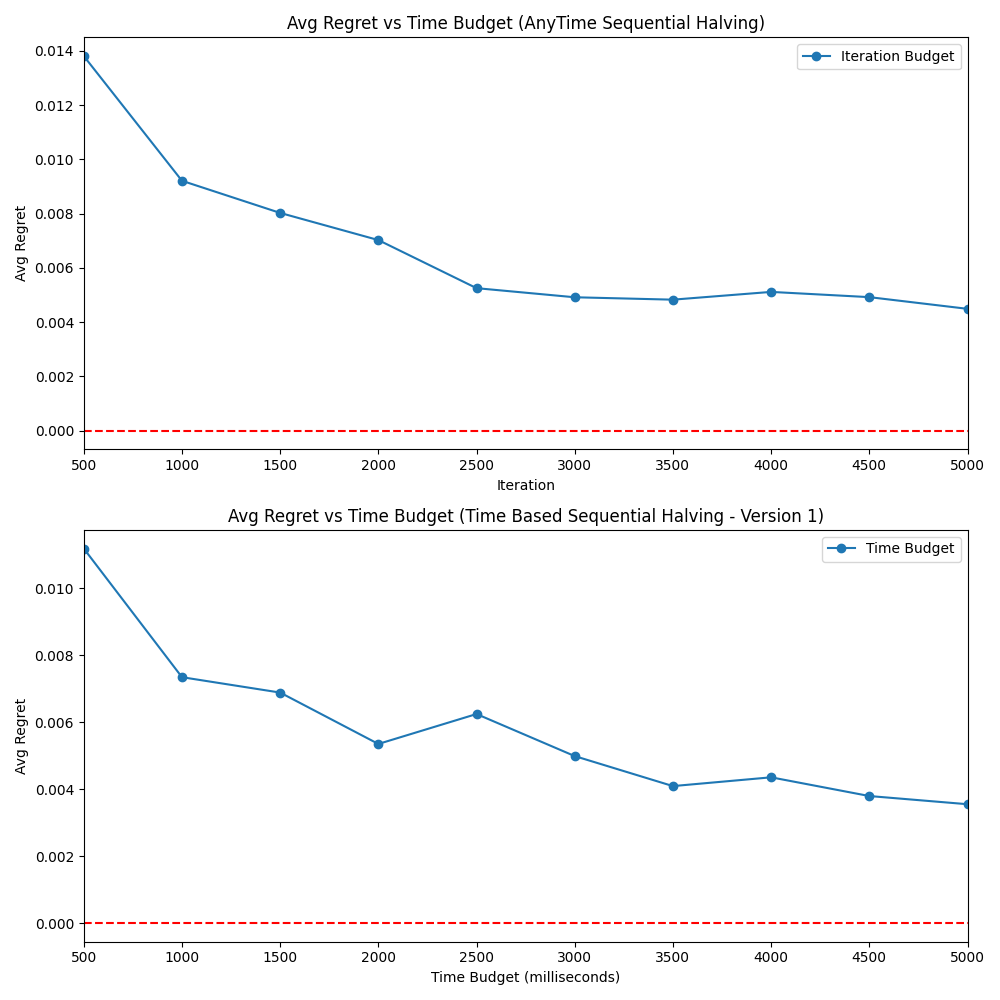
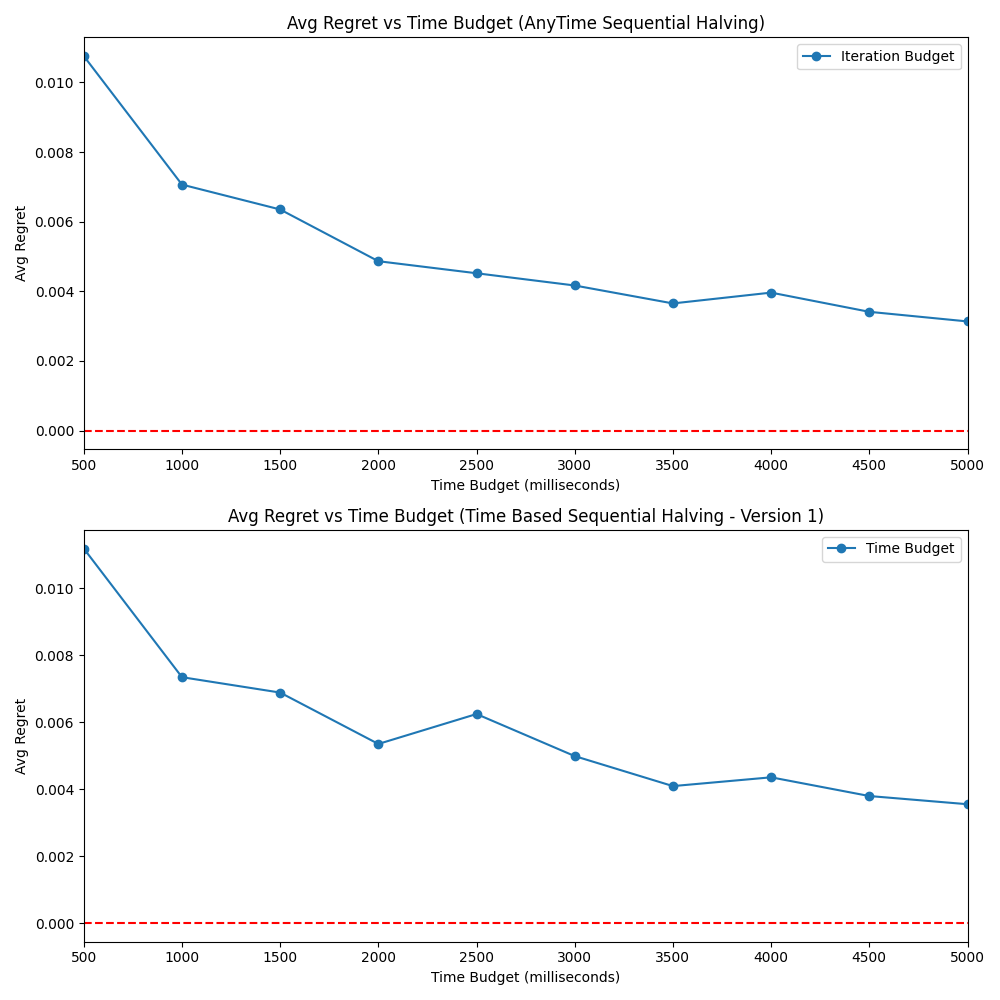
Proper iteration amount now given to children, UCB1 in MAB framework, reran MAB experiments for anyrtime

diff --git a/MAB/SequentialHalvingMAB.py b/MAB/SequentialHalvingMAB.py
@@ -191,6 +191,7 @@ class SequentialHalvingAlgAnyTime_v1:
     self.total_means = {index: 0 for index, arm in enumerate(range(k))} #The total rewards that the algorithm has observed for each arm
     self.hist = []
     self.return_hist = return_hist
+    self.round_iter = 0
 
    
      
@@ -206,8 +207,8 @@ class SequentialHalvingAlgAnyTime_v1:
   def choose_arm(self) -> int:
     #print(f"current_arm: {self.current_arm} current index: {self.current_arms.index(self.current_arm)} considered_arms_amt: {self.considered_arms_amt} current_round: {self.current_round} budget_left: {self.budget_left} sample_count_per_arm: {self.sample_count_per_arm} arms left: {len(self.current_arms)}")
     
-    if self.keys_idx + 1 >= len(self.current_arms_keys):#If this is true, we are ready to halve the search or we are ready to start over
-      
+    if self.round_iter >= len(self.current_arms):#If this is true, we are ready to halve the search or we are ready to start over
+      self.round_iter = 0
       if len(self.current_arms_keys) <= 2:#if true we reset the nodes we search
         self.keys_idx = 0
         self.current_arms_keys = list(self.current_arms.keys())
@@ -237,8 +238,9 @@ class SequentialHalvingAlgAnyTime_v1:
         self.keys_idx = 0
         
     else:
-      
+      self.round_iter = self.round_iter + 1
       self.keys_idx = self.keys_idx + 1
+      if self.keys_idx >= len(self.current_arms_keys): self.keys_idx = 0
       
     self.current_arm = self.current_arms_keys[self.keys_idx]
       # print("Current_arms: " + str(self.current_arms))
@@ -246,7 +248,7 @@ class SequentialHalvingAlgAnyTime_v1:
       # print(self.keys_idx)
       # print("curarm: " + str(self.current_arm))
     if self.return_hist: self.hist.append(self.current_arm)
-    
+
     return self.current_arm
 
       
@@ -480,6 +482,57 @@ class SequentialHalvingAlgTime_v1:
 #     self.total_means[self.current_arms.index(arm)] = self.total_rewards[self.current_arms.index(arm)]/self.visits[self.current_arms.index(arm)]
 #     self.current_rewards[self.current_arms.index(arm)] = self.total_rewards[self.current_arms.index(arm)]/self.visits[self.current_arms.index(arm)]
 
+class UCB1:
+  """
+  The UCB1 algorithm.
+  """
+
+  def __init__(self, C: float):
+    """
+    :param C: The exploration parameter C.
+    """
+    self.C = C
+    self.t = 0
+    self.num_pulls = [0 for _ in range(k)]
+    self.avg_rewards = np.zeros(k)
+
+  def reset(self) -> None:
+    """
+    Reset all memory.
+    """
+    self.t = 0
+    self.num_pulls = [0 for _ in range(k)]
+    self.avg_rewards = np.zeros(k)
+
+  def choose_arm(self) -> int:
+    """
+    :return: Arm, in [0, k).
+    """
+    self.t = self.t + 1
+    ucbs = np.copy(self.avg_rewards)
+    log_t = log(self.t)
+
+    for i in range(k):
+      if self.num_pulls[i] == 0:
+        ucbs[i] = np.inf
+      else:
+        ucbs[i] = ucbs[i] + self.C * sqrt(log_t / self.num_pulls[i])
+
+    return np.argmax(ucbs)
+
+  def observe_reward(self, arm: int, reward: float) -> None:
+    """
+    This function lets us observe rewards from arms we have selected.
+
+    :param arm: Index (starting at 0) of the arm we played.
+    :param reward: The reward we received.
+    """
+    self.num_pulls[arm] = self.num_pulls[arm] + 1
+    self.avg_rewards[arm] = self.avg_rewards[arm] + ((reward - self.avg_rewards[arm]) / self.num_pulls[arm])
 
   def __str__(self):
+    return f"UCB1({self.C:.3f})"
+  def __str__(self):
     return print(f"Sequential_halving:\nArm history: {self.hist}\n")
+  
+  

diff --git a/MAB/MAB_experiment_runner.py b/MAB/MAB_experiment_runner.py
@@ -373,7 +373,7 @@ if __name__ == "__main__":
     plt.subplot(2, 1, 1)
     plt.plot(csv1it["Index"], csv1it["Avg Regret"], label="Iteration Budget", marker='o')
     plt.axhline(y=0, color='r', linestyle='--')  # Add horizontal line at y=0
-    plt.xlabel("Iteration")
+    plt.xlabel("Time Budget (milliseconds)")
     plt.ylabel("Avg Regret")
     plt.title("Avg Regret vs Time Budget (AnyTime Sequential Halving)")
     plt.legend()
@@ -471,25 +471,25 @@ if __name__ == "__main__":
    
     
     
-    # num_arms = 10
-    # means_amt = 100
-    # iterations = 1000
-    # arm_means_idx = 5
+    num_arms = 10
+    means_amt = 100
+    iterations = 1000
+    arm_means_idx = 5
 
-    # time_budget_ms = 3000
+    time_budget_ms = 1000
 
-    # mab_exp_runner = MAB_Experiment_runner(num_arms, means_amt)
-    # # hist = mab_exp_runner.run_sh_anytime_experiment(time_budget_ms, arm_means_idx)
-    # # print(hist)
-    # # mab_exp_runner.plot_sh_experiment(hist,arm_means_idx,time_budget=time_budget_ms,type="anytime")
-    # # mab_exp_runner.run_regret_and_edit_distance_experiment("anytime",time_budget_ms=time_budget_ms,print_results=True)
+    mab_exp_runner = MAB_Experiment_runner(num_arms, means_amt)
+    # hist = mab_exp_runner.run_sh_anytime_experiment(time_budget_ms, arm_means_idx)
+    # print(hist)
+    # mab_exp_runner.plot_sh_experiment(hist,arm_means_idx,time_budget=time_budget_ms,type="anytime")
+    # mab_exp_runner.run_regret_and_edit_distance_experiment("anytime",time_budget_ms=time_budget_ms,print_results=True)
     
     
     # # # # mab_exp_runner.run_regret_and_edit_distance_experiment(algo_type="iteration", iterations=iterations)
     # # # mab_exp_runner.run_regret_and_edit_distance_experiment(algo_type="time", time_budget_ms=1000)
 
     # times = range(500,5500,500)
-    # # mab_exp_runner.make_csv_edit_regret_experiment(algo_type="time", time_range=times)
+    # # # mab_exp_runner.make_csv_edit_regret_experiment(algo_type="time", time_range=times)
     # mab_exp_runner.make_csv_edit_regret_experiment(algo_type="anytime", time_range=times)
     # # mab_exp_runner.make_csv_edit_regret_experiment(algo_type="iteration", iteration_range=[100,500,1000,5000,10000])
     # print(mab_exp_runner.arm_means[arm_means_idx, :])

diff --git a/Ludii/LudiiExampleAI-master/src/mcts/SHUCTAnyTime.java b/Ludii/LudiiExampleAI-master/src/mcts/SHUCTAnyTime.java
@@ -105,6 +105,8 @@ public class SHUCTAnyTime extends AI
 		boolean firstRound = true;
 		int numPossibleMoves = root.unexpandedMoves.size();
 		Node currentChild;
+		int armVisitCount = 0;
+		
 		ArrayList<Integer> currentChildrenIdx = new ArrayList<Integer>();//A list containing the indexes of the nodes we are searching from root.children
 		for(int i = 0; i < root.children.size();i++){
 			currentChildrenIdx.add(i);
@@ -185,6 +187,7 @@ public class SHUCTAnyTime extends AI
 				}
 				
 				rootNodesVisited++;
+				armVisitCount++;
 				if(rootNodesVisited == numPossibleMoves){
 					//System.out.println("First round over");
 					firstRound = true;
@@ -253,11 +256,13 @@ public class SHUCTAnyTime extends AI
 				// Increment iteration counts
 
 				hist.add(currentChildrenIdx.get(idx));
+				armVisitCount++;
 				idx++;
 
 			}
 
-			if(idx + 1 >= currentChildrenIdx.size()){//if we have visited the all children before halving
+			if(armVisitCount == numPossibleMoves){//if we have visited the all children before halving
+				armVisitCount = 0;
 				if(currentChildrenIdx.size() <= 2){//if we have visited all children AND we have halved the amount of times required
 					currentChildrenIdx = new ArrayList<Integer>();//reset the index list
 
@@ -268,14 +273,16 @@ public class SHUCTAnyTime extends AI
 					idx = 0;
 
 				}else{//We havent finished halving, so we halve based on the current exploit values
-					System.out.println("before: " + currentChildrenIdx.toString());
+					//System.out.println("before: " + currentChildrenIdx.toString());
 					currentChildrenIdx = halveRoot(root, currentChildrenIdx);
 					hist.add(999);
-					System.out.println("After: " + currentChildrenIdx.toString());
+					//System.out.println("After: " + currentChildrenIdx.toString());
 					
 					idx = 0;
 				}
 			}
+
+			if(idx >= currentChildrenIdx.size()){ idx = 0; }
 
 			firstRound = false;
 		}
